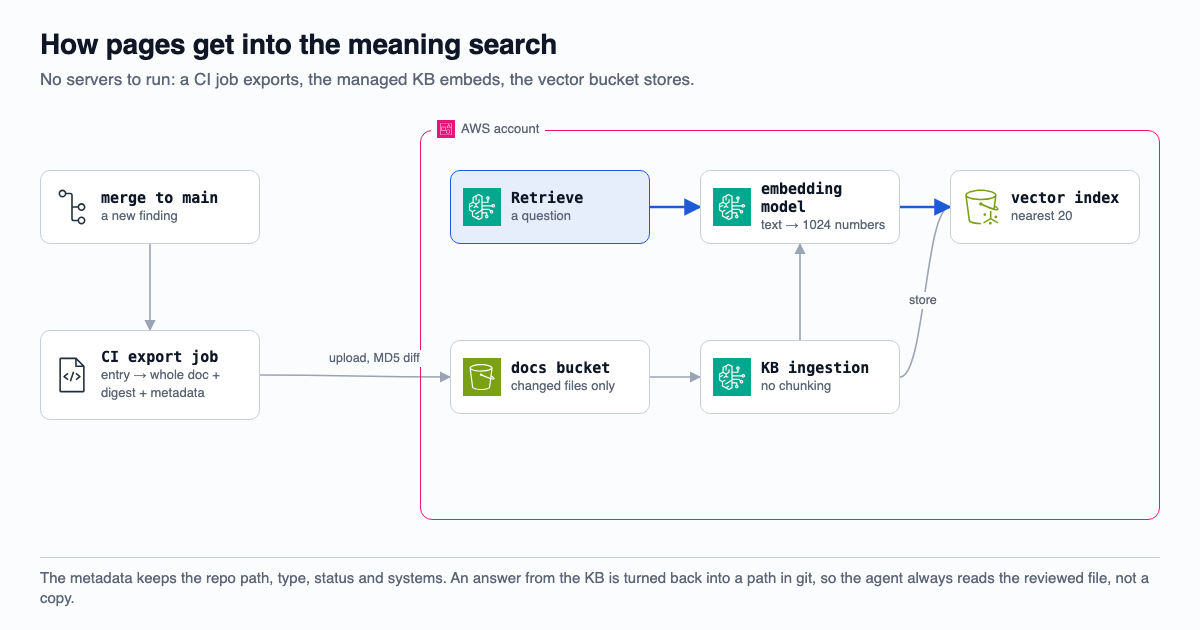
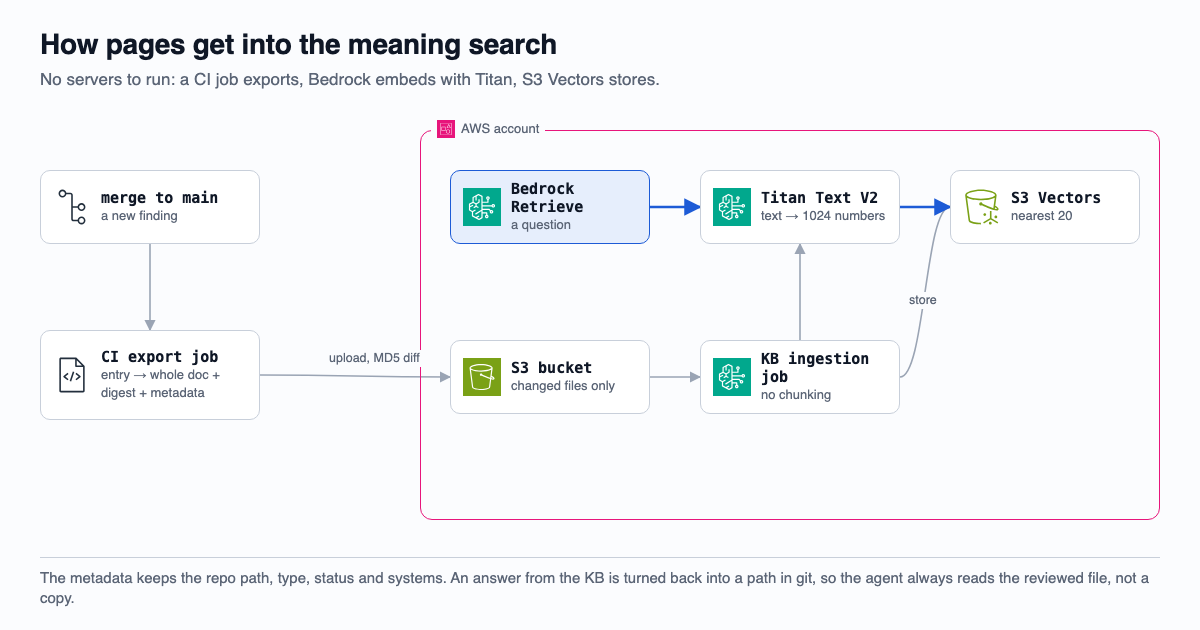
docs: name the AWS services in the article-3 figures

diff --git a/docs/article-3/figures.html b/docs/article-3/figures.html
@@ -54,14 +54,14 @@ function html(f,s){const e=document.createElement('div');e.innerHTML=s;while(e.f
 /* f1 - the map */
 let f=fig('f1','One repo, one door, every call visible','Git stays the source of truth. Agents read through one read-only server instead of opening files.');
 grp(f,320,140,840,400,'AWS account','g_account','#E7157B');
-grp(f,340,165,270,355,'Kubernetes cluster','eks');
+grp(f,340,165,270,355,'EKS cluster','eks');
 node(f,'lap',40,170,230,74,'coding agents','four tools on laptops','', 'client');
 node(f,'ops',40,330,230,74,'hosted ops agent','investigates alerts','', 'devopsagent');
 node(f,'mcp',360,200,230,100,'kb-mcp','search · get · list · related<br>reads a clone of main, pulled every 5 min','hi','eks');
 node(f,'tel',360,420,230,74,'telemetry','metrics · logs · traces','ok','cwlogs');
-node(f,'kb',650,200,230,74,'managed KB','embeddings, top 20','', 'bedrock');
-node(f,'vec',650,330,230,62,'vector index','one vector per document','', 's3vectors');
-node(f,'docs',910,330,230,62,'docs bucket','pages as KB documents','', 's3');
+node(f,'kb',650,200,230,74,'Bedrock KB','Titan embeddings, top 20','', 'bedrock');
+node(f,'vec',650,330,230,62,'S3 Vectors','one vector per document','', 's3vectors');
+node(f,'docs',910,330,230,62,'S3 bucket','pages as KB documents','', 's3');
 node(f,'git',910,30,230,64,'knowledge repo','main, after review','', 'git');
 edge(f,'lap','mcp',{hi:1,label:'MCP',lx:10});edge(f,'ops','mcp',{hi:1,dy2:20});
 edge(f,'mcp','kb',{label:'meaning',lx:5,ly:-14,dy1:-12});
@@ -110,7 +110,7 @@ html(f,`<div class="col" style="left:40px;top:120px"><h3>by words (BM25)</h3>
 <div class="item full">F-…-31-001 isolation guard <i>every word</i></div>
 <div class="item">I-…-30-001 incident <i>some words</i></div>
 <div class="item">F-…-01-002 metadata netpol <i>some words</i></div></div>
-<div class="col" style="left:435px;top:120px"><h3>by meaning (embeddings)</h3>
+<div class="col" style="left:435px;top:120px"><h3>by meaning (Bedrock KB)</h3>
 <div class="item kb">I-…-30-001 incident <i>#1</i></div>
 <div class="item kb">D-…-30-001 decision <i>#2</i></div>
 <div class="item kb">wiki: policy engine <i>#3</i></div></div>
@@ -126,15 +126,15 @@ html(f,`<div class="col" style="left:40px;top:120px"><h3>by words (BM25)</h3>
 html(f,`<div class="note">Exact error strings and alert names: words win. "The thing is called differently on the page": meaning wins. Agreement between the two decides the rest.</div>`);
 
 /* f5 - KB pipeline */
-f=fig('f5','How pages get into the meaning search','No servers to run: a CI job exports, the managed KB embeds, the vector bucket stores.');
+f=fig('f5','How pages get into the meaning search','No servers to run: a CI job exports, Bedrock embeds with Titan, S3 Vectors stores.');
 grp(f,420,130,740,390,'AWS account','g_account','#E7157B');
 node(f,'merge',40,170,220,74,'merge to main','a new finding','', 'git');
 node(f,'job',40,330,220,90,'CI export job','entry → whole doc + digest + metadata','', 'source');
-node(f,'q',450,170,200,74,'Retrieve','a question','hi','bedrock');
-node(f,'emb',700,170,200,74,'embedding model','text → 1024 numbers','', 'bedrock');
-node(f,'idx',950,170,190,74,'vector index','nearest 20','', 's3vectors');
-node(f,'bucket',450,340,200,74,'docs bucket','changed files only','', 's3');
-node(f,'ing',700,340,200,74,'KB ingestion','no chunking','', 'bedrock');
+node(f,'q',450,170,200,74,'Bedrock Retrieve','a question','hi','bedrock');
+node(f,'emb',700,170,200,74,'Titan Text V2','text → 1024 numbers','', 'bedrock');
+node(f,'idx',950,170,190,74,'S3 Vectors','nearest 20','', 's3vectors');
+node(f,'bucket',450,340,200,74,'S3 bucket','changed files only','', 's3');
+node(f,'ing',700,340,200,74,'KB ingestion job','no chunking','', 'bedrock');
 edge(f,'merge','job',{v:1});edge(f,'job','bucket',{label:'upload, MD5 diff',ly:-16,lx:10});edge(f,'bucket','ing');
 edge(f,'ing','emb',{v:1});edge(f,'ing','idx',{label:'store',lx:20,ly:10});
 edge(f,'q','emb',{hi:1});edge(f,'emb','idx',{hi:1});
